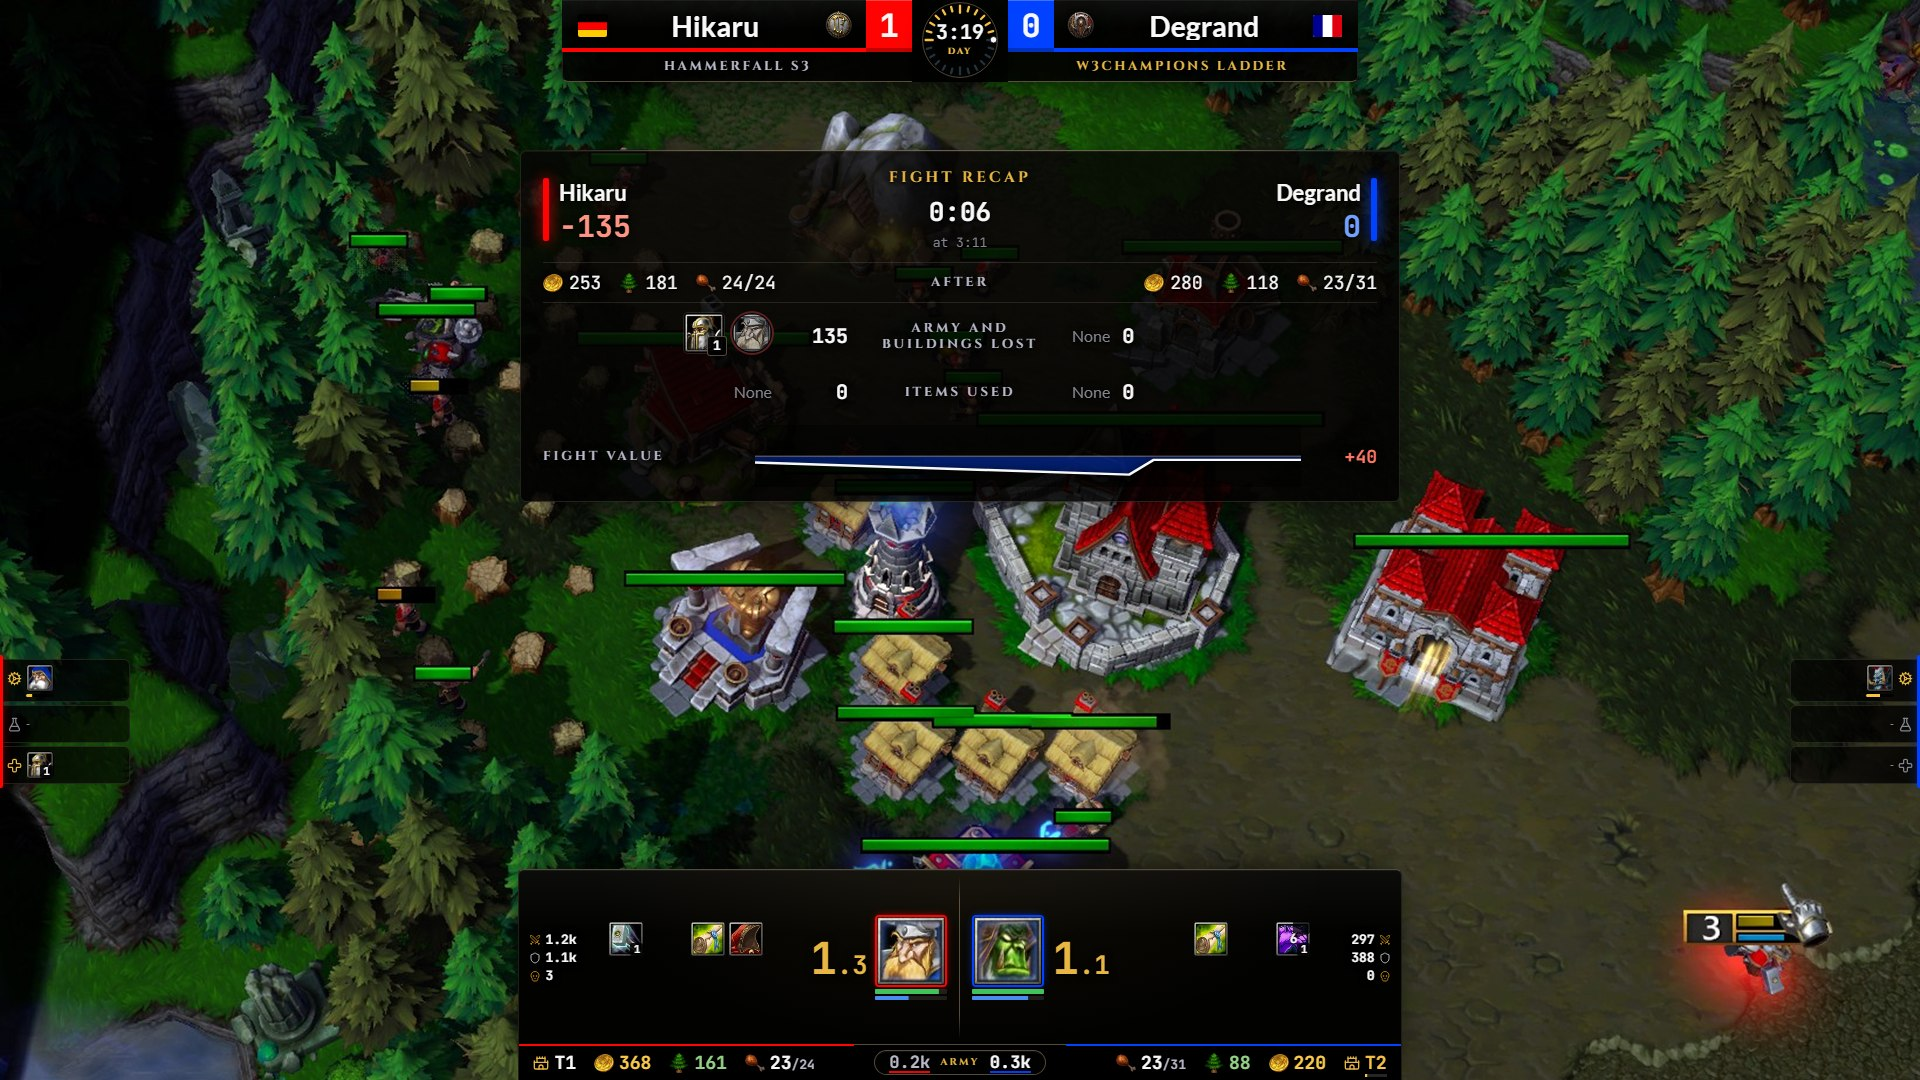
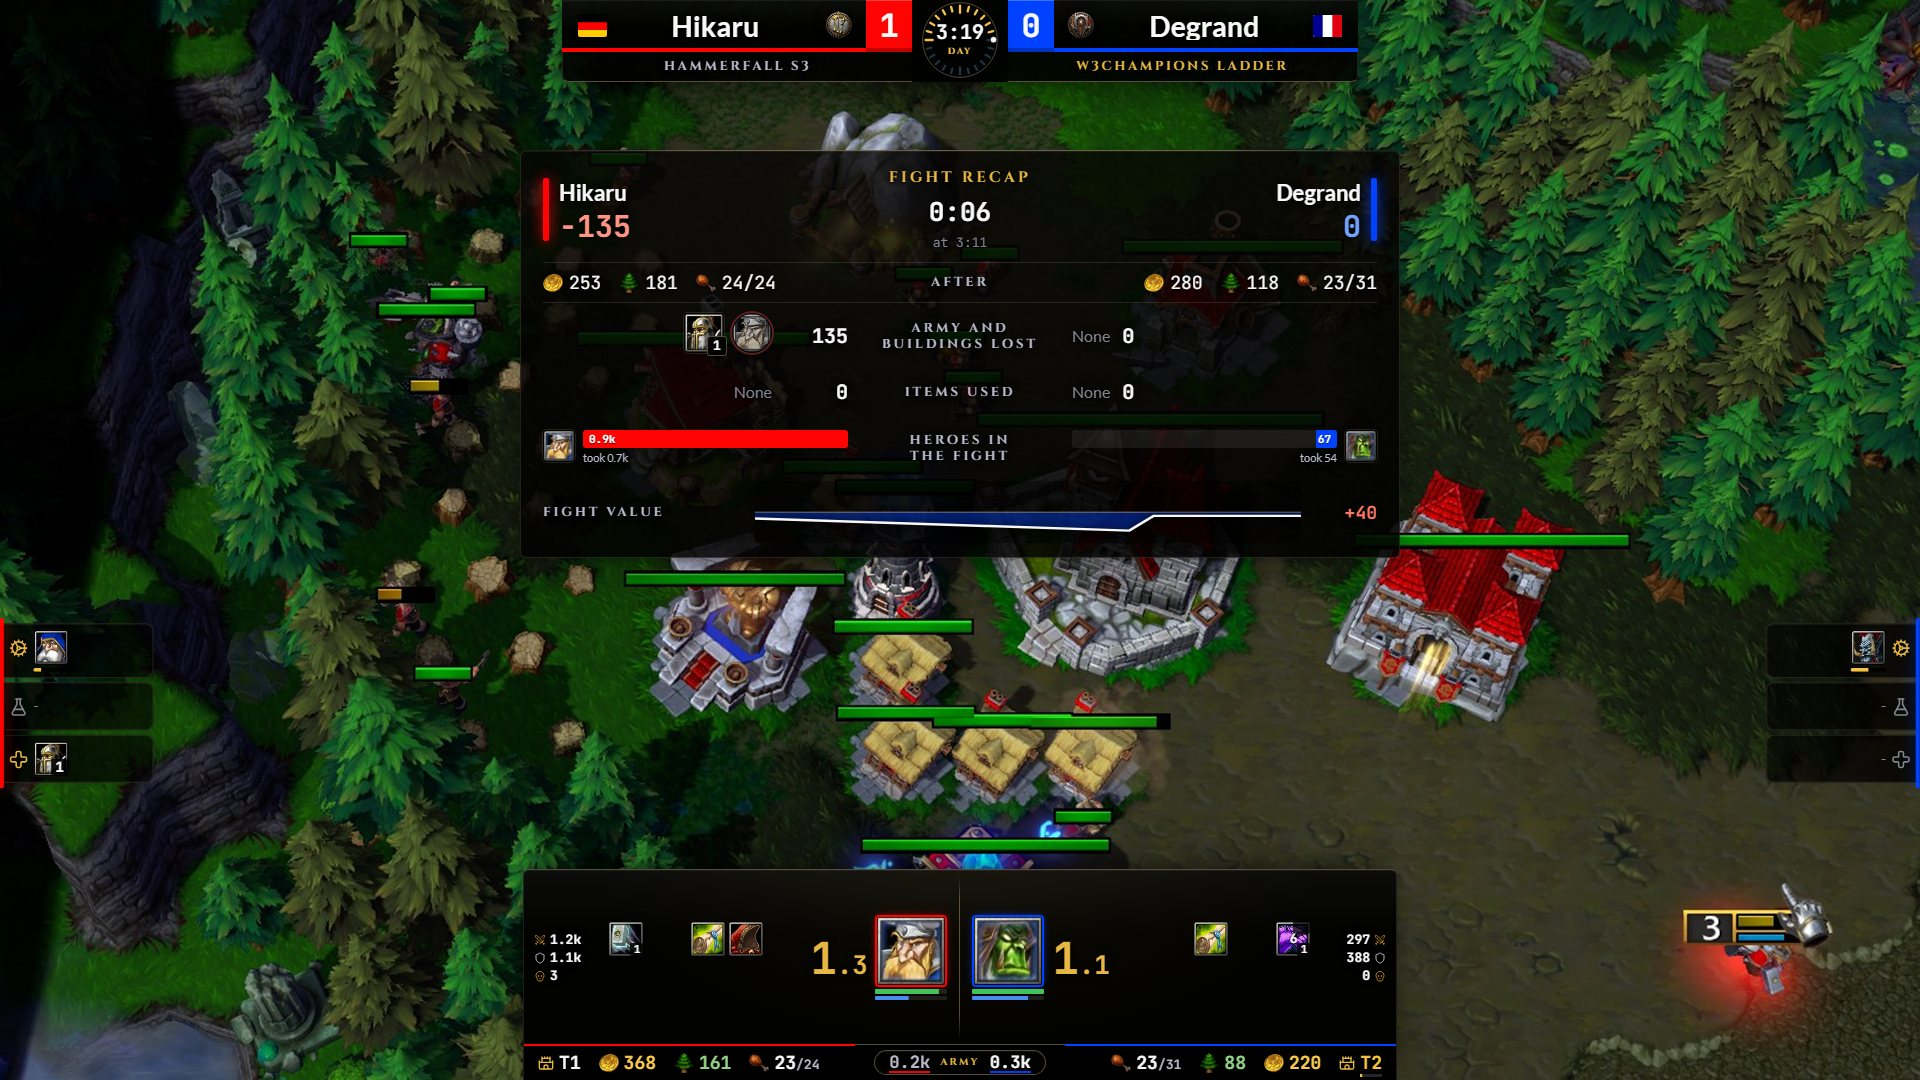
docs: new HUD screenshots: Top bar, player cards, match stats, fight recap with heroes
Also marks macOS as unavailable in the latest versions for now.

diff --git a/README.md b/README.md
@@ -13,7 +13,8 @@ no code here.
 ## Download the latest version
 - Windows installer: [W3-Companion-Setup.exe](https://github.com/degrand91/w3-companion-releases/releases/latest/download/W3-Companion-Setup.exe)
 - Windows portable (no install): [W3-Companion-Portable.exe](https://github.com/degrand91/w3-companion-releases/releases/latest/download/W3-Companion-Portable.exe)
-- macOS: [W3-Companion.dmg](https://github.com/degrand91/w3-companion-releases/releases/latest/download/W3-Companion.dmg)
+- macOS: not available in the latest versions for now (the last one is on
+  [Releases](https://github.com/degrand91/w3-companion-releases/releases)).
 
 All versions: [Releases](https://github.com/degrand91/w3-companion-releases/releases).
 
@@ -36,9 +37,10 @@ Warcraft III must run in windowed or borderless mode for the overlay to show.
 - **Profile:** strengths and things to work on, judged on enough games to be
   more than luck, plus Warcraft-themed achievements.
 - **Observer HUD** (Windows): live panels for observed games and replays, on
-  your screen or as OBS browser sources, with an end-of-match recap and a fight
-  recap after each fight. It only shows observer data: never anything the game
-  hides from a player in their own game.
+  your screen or as OBS browser sources: presets from a pro top bar to a clean
+  strip, W3Champions player cards, kills and items logs, an end-of-match recap
+  and a fight recap for every fight. It only shows observer data: never
+  anything the game hides from a player in their own game.
 
 ## Build orders over the game
 
@@ -97,13 +99,39 @@ coaching.
 
 ![Observer HUD, Analyst preset](screenshots/hud-analyst.jpg)
 
+**Top bar**: everything along the top, as pro casts lay it out: resources on
+the top edge with the score bar between them, hero cards with inventory,
+spells and damage in each corner, the army and what is training beside them.
+The game's own bottom panel stays clear.
+
+![Observer HUD, Top bar preset](screenshots/hud-topbar.jpg)
+
+**Player cards**: to present the players, from their W3Champions ladder games:
+rating and rank, record and form, how they do against this race, on this map
+and against this opponent, the heroes they open with and how long their games
+last.
+
+![Observer HUD, player cards](screenshots/player-cards.jpg)
+
+**Match stats**: units alive and lost per player, the resource difference
+between the players, a kills log (who killed what, creeps included) and an
+items log (who bought, got, sold or used what).
+
+![Observer HUD, match stats](screenshots/hud-stats.jpg)
+
+On your screen, hover any icon for its details (a hero's hit points, mana,
+experience and damage, a spell's cooldown, an item's charges), and the cursor
+stays visible over the panels.
+
 **End-of-match recap**: hero performance, value generated and spent, losses,
 items used and the value advantage over time.
 
 ![End-of-match recap](screenshots/match-recap.jpg)
 
-**Fight recap**: after each fight, what each side lost and used, and how the
-fight's value swung.
+**Fight recap**: after each fight, the Notifications panel on your screen
+lights up; one click shows the recap, on screen and in OBS: what each side
+lost and used, each hero's damage dealt, taken and healed, and how the fight's
+value swung.
 
 ![Fight recap](screenshots/fight-recap.jpg)
 
